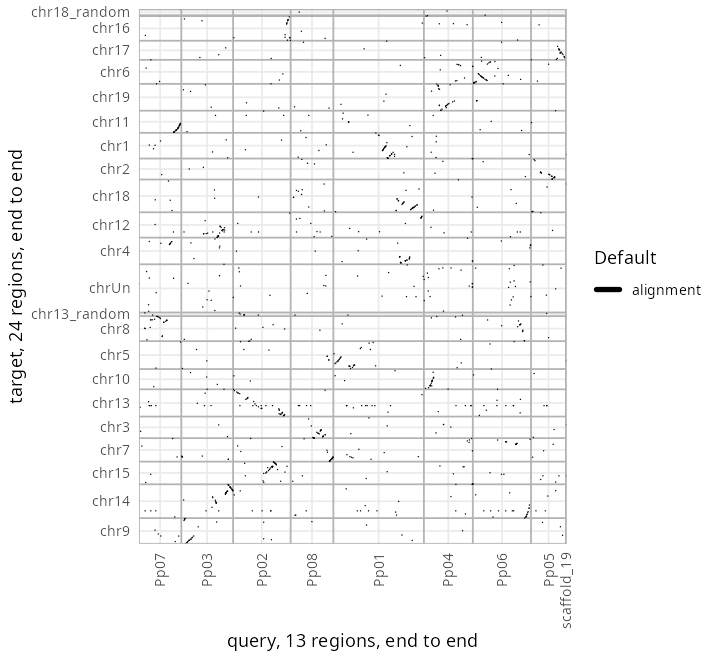
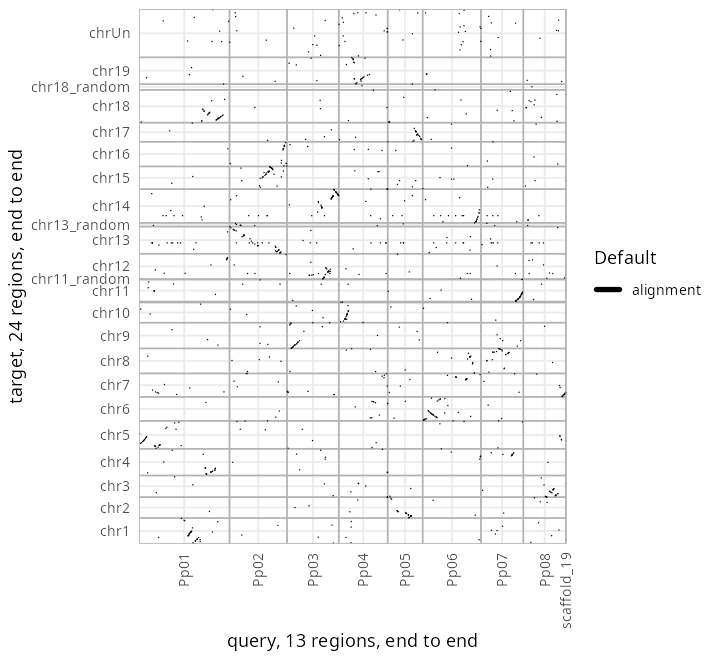
A whole-genome axis orders its contigs naturally, chr2 before chr10

diff --git a/README.md b/README.md
@@ -313,7 +313,7 @@ strip's hover prints, from `s$offscreen_contigs`. A file guessed from its extens
 its sides `query` and `target`; a JBrowse adapter config names assemblies,
 and `assemblies = c(query, target)` picks which goes on which row.
 `swap = TRUE` puts the file's target on the top row instead. With no regions
-given, a row shows every contig of its assembly, in the file's order, and a
+given, a row shows every contig of its assembly, in natural order, and a
 contig named alone shows whole, so a whole-genome dotplot is one call:
 
 ```r
